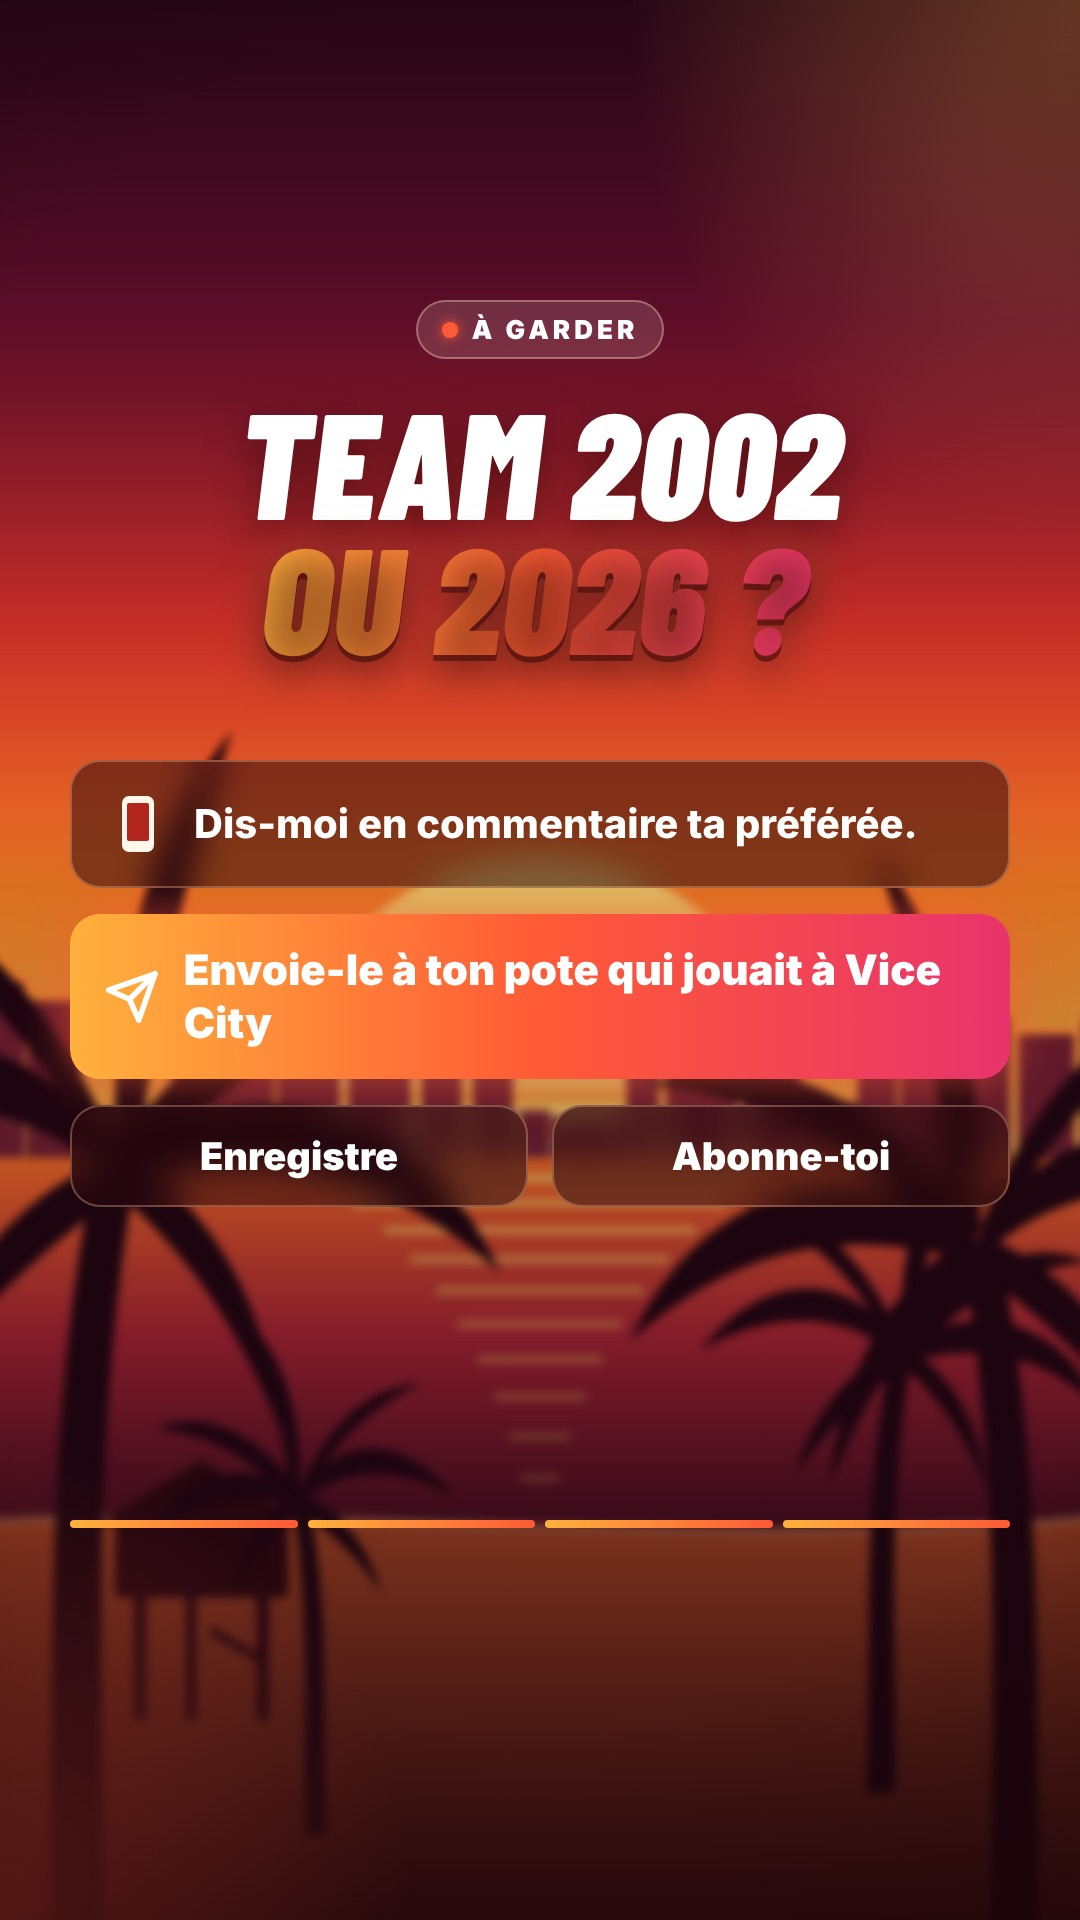
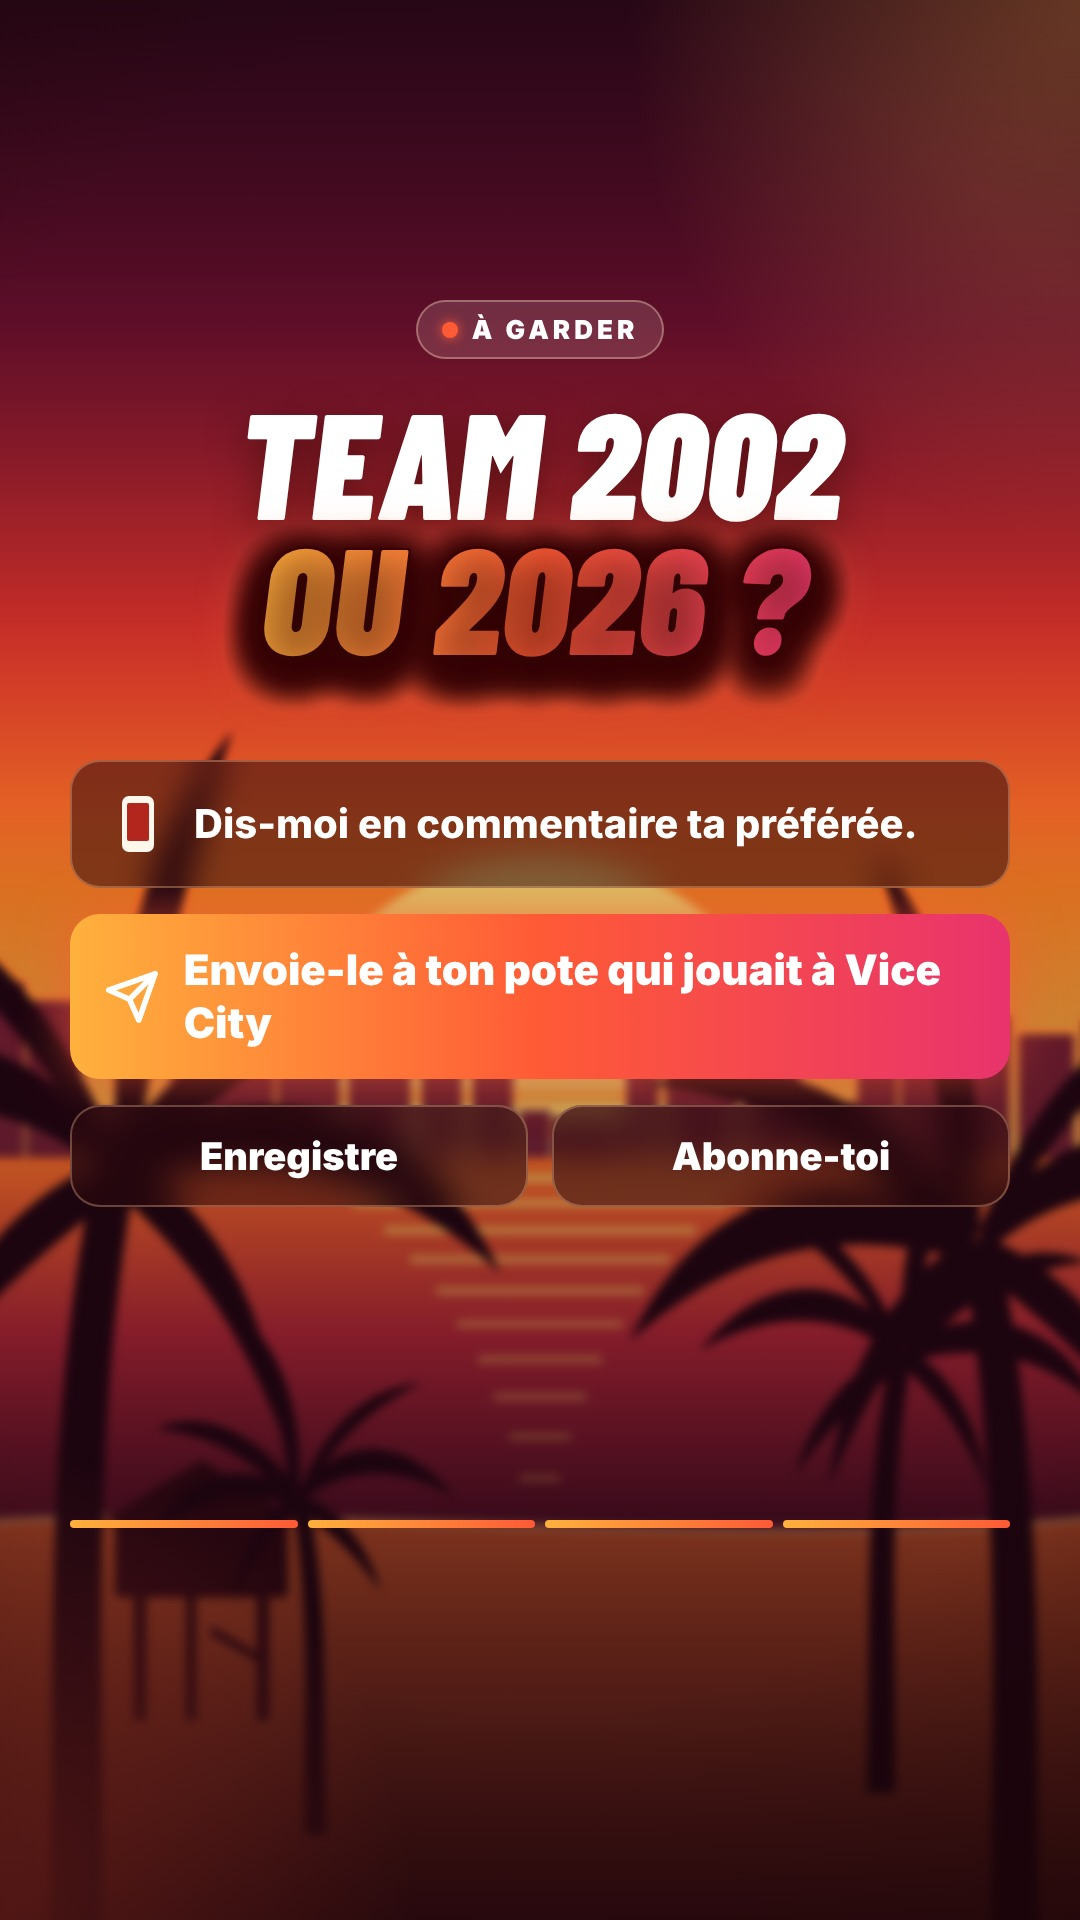
Miniatures : contour sur les mots en dégradé, pastille Partie N, aperçu de la grille du profil ; meme.py layout contain
Claude-Session: https://claude.ai/code/session_01MN5qWVk9e4Jfowbn4WdGDr

Changed region(s): [[0.2139, 0.25, 0.7944, 0.375]]

diff --git a/outils/hud.py b/outils/hud.py
@@ -11,7 +11,8 @@ Dans tous les textes, <g>mot</g> met le mot en dégradé chaud.
 Types de slides (champ "type") :
 - "hook"  : accroche. Champs : label, sub (petit texte en haut à gauche), hud {plus, amount, stars} (facultatif, en haut à droite),
             chip, title, title_size, puis UN visuel au choix : wheel {left:{icon,l1,l2}, right:{icon,l1,l2}, center:[l1,l2], hint}
-            | bignum {num, text} | image "img/x.jpg" (+ image_top, image_height, image_fit "cover" ou "contain") | icon "nom".
+            | bignum {num, text} | image "img/x.jpg" (+ image_top, image_height, image_fit "cover" ou "contain",
+            badge = pastille bien visible sur la miniature, ex. « Partie 2 ») | icon "nom".
             Puis pill (pastille en bas, ex. « L'ASTUCE EN 3 ÉTAPES → »).
 - "steps" : étape. Champs : tag (ex. MISSION), step (ex. ÉTAPE 1/3), title, points [{icon, text}] (3 max conseillé,
             le dernier est mis en avant), warn {title, text} (facultatif), next (pastille du bas, facultatif).
@@ -52,7 +53,7 @@ body{{position:relative;font-family:Inter;color:#fff;-webkit-font-smoothing:anti
 .shade{{position:absolute;inset:0;background:linear-gradient(180deg,rgba(26,4,12,.6),rgba(26,4,12,.12) 42%,rgba(26,4,12,.38) 72%,rgba(26,4,12,.72))}}
 .leak{{position:absolute;inset:0;background:radial-gradient(60% 40% at 100% 0%,rgba(255,170,80,.35),transparent 70%),radial-gradient(55% 35% at 0% 100%,rgba(255,80,60,.28),transparent 70%)}}
 .vig{{position:absolute;inset:0;background:radial-gradient(120% 80% at 50% 45%,transparent 55%,rgba(25,5,0,.5))}}
-.grad{{background:linear-gradient(100deg,{A} 0%,{B} 50%,{C} 100%);-webkit-background-clip:text;background-clip:text;color:transparent;padding-right:.08em;filter:drop-shadow(0 6px 0 rgba(60,8,10,.6)) drop-shadow(0 0 18px rgba(255,140,90,.3))}}
+.grad{{background:linear-gradient(100deg,{A} 0%,{B} 50%,{C} 100%);-webkit-background-clip:text;background-clip:text;color:transparent;padding-right:.08em;filter:drop-shadow(2px 0 0 #3A0408) drop-shadow(-2px 0 0 #3A0408) drop-shadow(0 2px 0 #3A0408) drop-shadow(0 -2px 0 #3A0408) drop-shadow(0 7px 0 rgba(40,4,6,.8)) drop-shadow(0 0 18px rgba(255,140,90,.3))}}
 .gbg{{background:linear-gradient(90deg,{A},{B} 50%,{C})}}
 .glass{{background:{GLASS};border:2px solid {LINE};border-radius:30px;backdrop-filter:blur(16px)}}
 .lab{{font:900 24px Inter;letter-spacing:5px;color:{A};text-transform:uppercase}}
@@ -210,6 +211,11 @@ def body(s, base, n, total):
         elif s.get("image"):
             top, h = s.get("image_top", 740), s.get("image_height", 620)
             out += f'<div class="content" style="top:{top}px">{photo_box(base, s["image"], h, fit=s.get("image_fit", "cover"))}</div>'
+            if s.get("badge"):
+                # Pastille bien visible sur la miniature (ex. « Partie 2 » d'une série)
+                out += (f'<div class="abs" style="top:{top - 46}px;right:84px;transform:rotate(-4deg);background:#FFF3E0;color:#2A0608;'
+                        f'font:900 italic 74px/1 Barlow;text-transform:uppercase;padding:14px 30px 10px;border-radius:20px;'
+                        f'box-shadow:0 10px 0 #3A0408,0 0 40px {GLOW}">{s["badge"]}</div>')
             out += pill(s.get("pill"), 1410) if top + h <= 1390 else ""
         elif s.get("bignum"):
             bn = s["bignum"]

diff --git a/outils/meme.py b/outils/meme.py
@@ -7,8 +7,10 @@ Spec : {"slides": [{"image": "img/x.jpg", "text": "La situation…", "punch": "(
 - layout "center" (par défaut, pour les captures en paysage) : capture en pleine largeur au centre,
   même image floutée en fond, légende au-dessus de la capture.
 - layout "full" (captures en portrait) : capture plein écran, légende en haut.
-- punch : petite réplique en bas à droite de la capture (facultatif).
-Règles : pas d'emoji, pas de @, captures de Romain uniquement (dossier banque/ ou img/ du post).
+- layout "contain" (mème déjà légendé, ex. repost d'un mème en français) : image entière centrée sur fond flouté,
+  sans bulle si "text" est vide.
+- punch : petite réplique en bas à droite de la capture (facultatif). text vide = pas de bulle.
+Règles : pas d'emoji ni de @ dans nos textes, images de la banque de Romain uniquement (dossier banque/ ou img/ du post).
 """
 import json, pathlib, sys
 
@@ -32,13 +34,18 @@ def page(s, base):
     img = (base / s["image"]).resolve().as_uri()
     focus = s.get("focus", "50% 50%")
     text, punch = s.get("text", ""), s.get("punch", "")
-    if s.get("layout") == "full":
+    cap = lambda style: (f'<div class="cap" id="cap" style="{style}"><span class="box">{text}</span></div>' if text else "")
+    if s.get("layout") == "contain":
+        # Mème déjà légendé (repost d'un mème en français) : image entière, centrée dans la zone sûre, sans bulle ajoutée
+        body = (f'<img class="bg" src="{img}"><img src="{img}" style="position:absolute;left:0;top:200px;width:1080px;height:1300px;object-fit:contain">'
+                + cap("top:120px") + (f'<div class="punch" style="top:1380px">{punch}</div>' if punch else ""))
+    elif s.get("layout") == "full":
         body = (f'<img class="shot" src="{img}" style="top:0;height:1920px;object-position:{focus}">'
-                f'<div class="cap" style="top:300px"><span class="box">{text}</span></div>'
+                + cap("top:300px")
                 + (f'<div class="punch" style="top:1250px">{punch}</div>' if punch else ""))
     else:
         body = (f'<img class="bg" src="{img}"><img class="shot" id="shot" src="{img}" style="top:760px;height:680px;object-position:{focus}">'
-                f'<div class="cap" id="cap" style="bottom:1200px"><span class="box">{text}</span></div>'
+                + cap("bottom:1200px")
                 + (f'<div class="punch" style="top:1330px">{punch}</div>' if punch else ""))
     return f'<!DOCTYPE html><html><head><meta charset="utf-8"><style>{CSS}</style></head><body>{body}</body></html>'
 

diff --git a/outils/grille.py b/outils/grille.py
@@ -1,0 +1,57 @@
+#!/usr/bin/env python3
+"""Aperçu de la grille du profil TikTok, pour vérifier les miniatures.
+
+Usage : python3 outils/grille.py [dossier_du_nouveau_post ...]
+- Prend la slide 1 (la miniature, photoCoverIndex 0) des posts donnés, puis complète avec les posts
+  les plus récents de historique.md (du plus récent au plus ancien), 9 cases en tout.
+- Chaque case est recadrée comme sur le profil TikTok : centre de l'image au format 3:4
+  (environ 240 px coupés en haut et en bas d'une slide 1080 x 1920).
+- Écrit /tmp/grille.jpg : l'ouvrir avec Read et vérifier que, à cette petite taille,
+  le titre se lit, la partie d'une série se voit, et que la miniature se distingue des voisines.
+"""
+import pathlib, re, sys
+from PIL import Image, ImageDraw
+
+ROOT = pathlib.Path(__file__).resolve().parent.parent
+W, H, GAP, COLS = 360, 480, 6, 3
+
+
+def recents():
+    rows = []
+    for line in (ROOT / "historique.md").read_text().splitlines():
+        m = re.match(r"\|\s*(\d{4}-\d{2}-\d{2})\s*\|\s*(\d{2}:\d{2})\s*\|\s*(posts/[^ |]+)", line)
+        if m:
+            rows.append((m.group(1) + " " + m.group(2), m.group(3)))
+    rows.sort(reverse=True)
+    return [p for _, p in rows]
+
+
+def main(args):
+    wanted = [a.rstrip("/") for a in args]
+    for p in recents():
+        if p not in wanted:
+            wanted.append(p)
+    tiles = []
+    for p in wanted:
+        f = ROOT / p / "slide-01.jpg"
+        if f.exists():
+            tiles.append(f)
+        if len(tiles) == 9:
+            break
+    rows = (len(tiles) + COLS - 1) // COLS
+    sheet = Image.new("RGB", (COLS * W + (COLS - 1) * GAP, rows * H + (rows - 1) * GAP), "white")
+    for i, f in enumerate(tiles):
+        im = Image.open(f).convert("RGB")
+        w, h = im.size
+        ch = int(w * 4 / 3)
+        top = (h - ch) // 2
+        tile = im.crop((0, top, w, top + ch)).resize((W, H))
+        if i < len(args):
+            ImageDraw.Draw(tile).rectangle([0, 0, W - 1, H - 1], outline="#00E0FF", width=6)
+        sheet.paste(tile, ((i % COLS) * (W + GAP), (i // COLS) * (H + GAP)))
+    sheet.save("/tmp/grille.jpg", quality=85)
+    print("grille : /tmp/grille.jpg (" + str(len(tiles)) + " miniatures, nouveaux posts encadrés en bleu)")
+
+
+if __name__ == "__main__":
+    main(sys.argv[1:])
